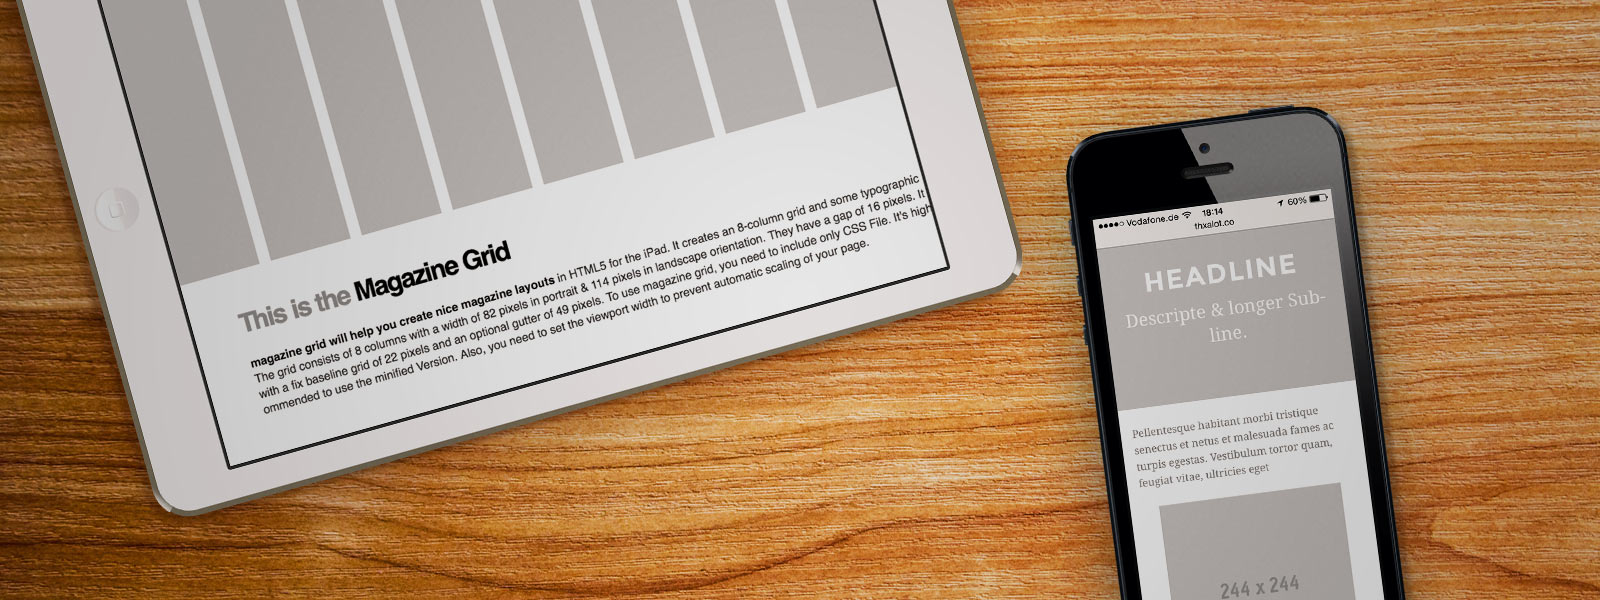
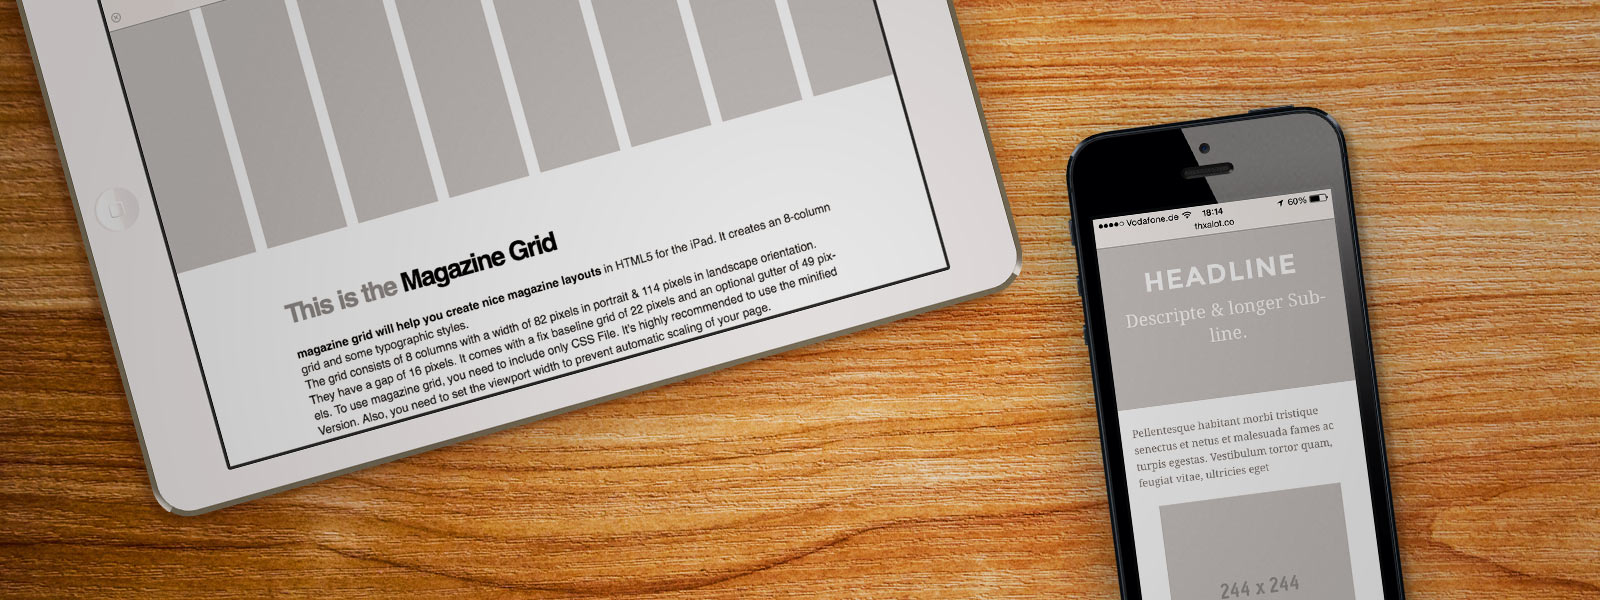
Added Gitignore, Minor Example & Landing Page Changes

diff --git a/index.html b/index.html
@@ -28,6 +28,9 @@
     p {
       font-size: 20px;
       line-height: 33px;
+      -webkit-hyphens: none;
+      -moz-hyphens: none;
+      hyphens: none;
     }
     .grid.x2 p {      
       font-size: 18px;
@@ -46,6 +49,12 @@
     h1 b {
       text-align: center;
       color: #2c3e50;
+    }
+    p a,
+    small a {
+      color: #2c3e50;
+      text-decoration: none;
+      border-bottom: 1px solid #2c3e50;
     }
     .full .opener h1 {
       padding: 0;
@@ -194,13 +203,15 @@
         margin-bottom: 22px;
       }
       section.full .opener {
-        padding-bottom: 33px;
+        padding-bottom: 11px;
       }
       p,
-      .opener p,
       .grid.x2 p { 
         line-height: 22px;
         font-size: 16px;
+      }
+      .opener p {
+        display: none;
       }
       .grid.x2 p,
       .full p,
@@ -211,7 +222,7 @@
       }
       h1 {
         font-size: 32px;
-        line-height: 44px;
+        line-height: 33px;
       }
       p.teaser {
         font-size: 24px;
@@ -232,6 +243,23 @@
   <meta name="apple-mobile-web-app-capable" content="yes" />
   <meta name="apple-mobile-web-app-status-bar-style" content="black" />
   <meta name="format-detection" content="telephone=no" />
+  <meta name="description" content="MagazineGrid is a free CSS framework, designed to create amazing story layouts for the web.">
+  <link rel="author" href="https://plus.google.com/108515102883935248338"/>
+  <link rel="publisher" href="https://plus.google.com/108515102883935248338"/>
+  <!-- Facebook -->
+  <meta property="og:title" content="MagazineGrid" />
+  <meta property="og:type" content="website" />
+  <meta property="og:url" content="http://thxalot.co/grid/" />
+  <meta property="og:image" content="http://thxalot.co/grid/img/grid/header.jpg" />
+  <meta property="og:description" content="MagazineGrid is a free CSS framework, designed to create amazing story layouts for the web." />
+  <meta property="og:locale" content="en_GB" />
+  <meta property="fb:admins" content="781190348"/>
+  <!-- Twitter -->
+  <meta property="twitter:card" content="summary">
+  <meta property="twitter:url" content="http://thxalot.co/grid/">
+  <meta property="twitter:title" content="MagazineGrid" />
+  <meta property="twitter:image" content="http://thxalot.co/grid/img/grid/header.jpg" />
+  <meta property="twitter:description" content="MagazineGrid is a free CSS framework, designed to create amazing story layouts for the web." />
 </head>
 <body>
 <article>
@@ -244,7 +272,7 @@
   <section>
     <div class="story">
       <p class="teaser">MagazineGrid is a free CSS framework, designed to create amazing story layouts for the web.</p>
-      <p>Create an amazing article like on Medium, Exposure or Storehouse. Create a complete iPad magazine like the Aside Mag. Create a product landing page or a portfolio. Whatever story you want to tell, MagazineGrid helps you to set it right.</p>
+      <p>Create an amazing article like on <a href="http://medium.com/">Medium</a>, <a href="https://jippen.exposure.so/moscow">Exposure</a> or <a href="https://www.storehouse.co/stories/t9sr-moscow">Storehouse</a>. Create a complete iPad magazine like the <a href="http://asidemag.com/">Aside Mag</a>. Create a product landing page or a portfolio. Whatever story you want to tell, MagazineGrid helps you to set it right.</p>
       <p>MagazineGrid comes without the clutter. It concentrates on what it does best: provide a good grid. Load more elements like buttons, forms, tables etc. as extensions.</p>
     </div>
   </section>
@@ -358,19 +386,19 @@
     </div>
   </section>
   <section class="full interlude">
-    <h1><b>Made for the iPad,</b> works like a charm on Phone and Desktop</h1>
+    <h1><b>Made for the iPad,</b> Works Like a Charm on Phone and Desktop</h1>
   </section>
   <section>
     <div class="story">
       <h1>Examples</h1>
     </div>
-    <div class="grid x3 indent1"><a href="./example.images.html"><img src="img/grid/example_egypt.png"></a></div>
-    <div class="grid x3"><a href="./example.moscow.html"><img src="img/grid/example_moscow.png"></a></div>
+    <div class="grid x3 indent1"><a href="./example.images.html"><img src="img/grid/example_egypt.jpg"></a></div>
+    <div class="grid x3"><a href="./example.moscow.html"><img src="img/grid/example_moscow.jpg"></a></div>
   </section>
   <hr>
   <section>
     <div class="story">
-      <h1>Plugins.</h1>
+      <h1>Plugins</h1>
       <p>Need more Styles? Load extra elements as extensions from Github. Watch this space - we will add more extensions soon. Leave your email to get notified - don't miss it!</p>
     </div>
     <div class="grid x2 indent1"><a href="https://github.com/johannesippen/magazinegrid/tree/master/src/extensions"><img src="img/grid/extension_pagination.png"></a></div>
@@ -383,7 +411,7 @@
       <h1>Get Started</h1>
     </div>
     <div class="grid x3 indent1">
-      <a href="http://cl.ly/0Z3Z030d1h0O" class="btn">Download</a><a href="https://github.com/johannesippen/magazinegrid/" class="btn">Github</a><small>It's FREE! Some Rights reserved. Examples included.</small>
+      <a href="http://cl.ly/0Z3Z030d1h0O" class="btn">Download</a><a href="https://github.com/johannesippen/magazinegrid/" class="btn">Github</a><small>It's FREE! Some Rights reserved. Examples included.<br> Looking for the <a href="./v1/">old MagazineGrid version</a>?</small>
     </div>
     <div class="grid x3">
       <form action="http://thanksalot.us3.list-manage.com/subscribe/post?u=830819cae8586f7478973cdf8&amp;id=fb74f80b31" method="post" class="subscribe">
@@ -399,5 +427,13 @@
     <p>2014</p>
   </section>
 </article>
+<script>
+  (function(i,s,o,g,r,a,m){i['GoogleAnalyticsObject']=r;i[r]=i[r]||function(){
+  (i[r].q=i[r].q||[]).push(arguments)},i[r].l=1*new Date();a=s.createElement(o),
+  m=s.getElementsByTagName(o)[0];a.async=1;a.src=g;m.parentNode.insertBefore(a,m)
+  })(window,document,'script','//www.google-analytics.com/analytics.js','ga');
+  ga('create', 'UA-41425939-3', 'thanksalot.co');
+  ga('send', 'pageview');
+</script>
 </body>
 </html>

diff --git a/example.simple.html b/example.simple.html
@@ -40,18 +40,22 @@
     <div class="grid x1">&nbsp;</div>
     <div class="grid x1">&nbsp;</div>
   </section>
-  <section class="gutter">
-    <h1>This is the <strong>Magazine Grid</strong></h1>
-    <p><strong>magazine grid will help you create nice magazine layouts</strong> in HTML5 for the iPad. It creates an 8-column grid and some typographic styles.</p>
-    <p>The grid consists of 8 columns with a width of 82 pixels in portrait & 114 pixels in landscape orientation. They have a gap of 16 pixels. It comes with a fix baseline grid of 22 pixels and an optional gutter of 49 pixels. To use magazine grid, you need to include only CSS File. It's highly recommended to use the minified Version. Also, you need to set the viewport width to prevent automatic scaling of your page.</p>
-  </section>
-  <section class="gutter column2 border">
-    <h2>Made for the iPad</h2>
-    <p>aGrid.css is designed to work best on the iPad in portrait and landscape orientation. The simple 8 column grid uses the full display without leaving unnecessary margins.</p>    
-    <h2>iPhone compatible? Yes, Sir!</h2>
-    <p>Of course aGrid.css has a nice fallback style for devices with smaller displays such as the iPhone or iPod Touch. It linearizes the grid and puts the main focus on readability. </p>
-    <h2>Lighter than 4kB</h2>
-    <p>aGrid.css is superlight to load fast on mobile devices. That is why it doesn't care about oldschool browsers like IE6 or Netscape.</p>
+  <section>
+    <div class="story">
+      <h1>This is the <strong>Magazine Grid</strong></h1>
+      <p><strong>magazine grid will help you create nice magazine layouts</strong> in HTML5 for the iPad. It creates an 8-column grid and some typographic styles.</p>
+      <p>The grid consists of 8 columns with a width of 82 pixels in portrait &amp; 114 pixels in landscape orientation. They have a gap of 16 pixels. It comes with a fix baseline grid of 22 pixels and an optional gutter of 49 pixels. To use magazine grid, you need to include only CSS File. It's highly recommended to use the minified Version. Also, you need to set the viewport width to prevent automatic scaling of your page.</p>
+      </div>
+    </section>
+    <section>
+      <div class="story column2 border">
+        <h2>Made for the iPad</h2>
+        <p>aGrid.css is designed to work best on the iPad in portrait and landscape orientation. The simple 8 column grid uses the full display without leaving unnecessary margins.</p>    
+        <h2>iPhone compatible? Yes, Sir!</h2>
+        <p>Of course aGrid.css has a nice fallback style for devices with smaller displays such as the iPhone or iPod Touch. It linearizes the grid and puts the main focus on readability. </p>
+        <h2>Lighter than 4kB</h2>
+        <p>aGrid.css is superlight to load fast on mobile devices. That is why it doesn't care about oldschool browsers like IE6 or Netscape.</p>
+    </div>
   </section> 
   <footer><li>1</li><li class="current">2</li><li>3</li><li>4</li><li>5</li></footer>
 </article>

diff --git a/example.moscow.html b/example.moscow.html
@@ -69,7 +69,7 @@
     </div>
   </section>
   <section>
-    <div class="grid x6 indent1"><img src="img/moscow/story_764x244.jpg"></div>
+    <div class="grid x6 indent1"><img src="img/moscow/story_764x244.JPG"></div>
   </section>
   <section>
     <div class="story">
@@ -77,7 +77,7 @@
     </div>
   </section>
   <section class="full">
-    <img src="img/moscow/full_1024.jpg">
+    <img src="img/moscow/full_1024.JPG">
   </section>
 </article>
 </body>

diff --git a/src/extensions/simple-forms.css b/src/extensions/simple-forms.css
@@ -26,7 +26,9 @@ input[type=email] {
   height: 42px;
   margin: 0;
   border: 1px solid #ccc;
+  border-radius: 0;
   text-decoration: none;
+  box-shadow: none;
   font: normal 18px/44px sans-serif;
 }
 .subscribe {
